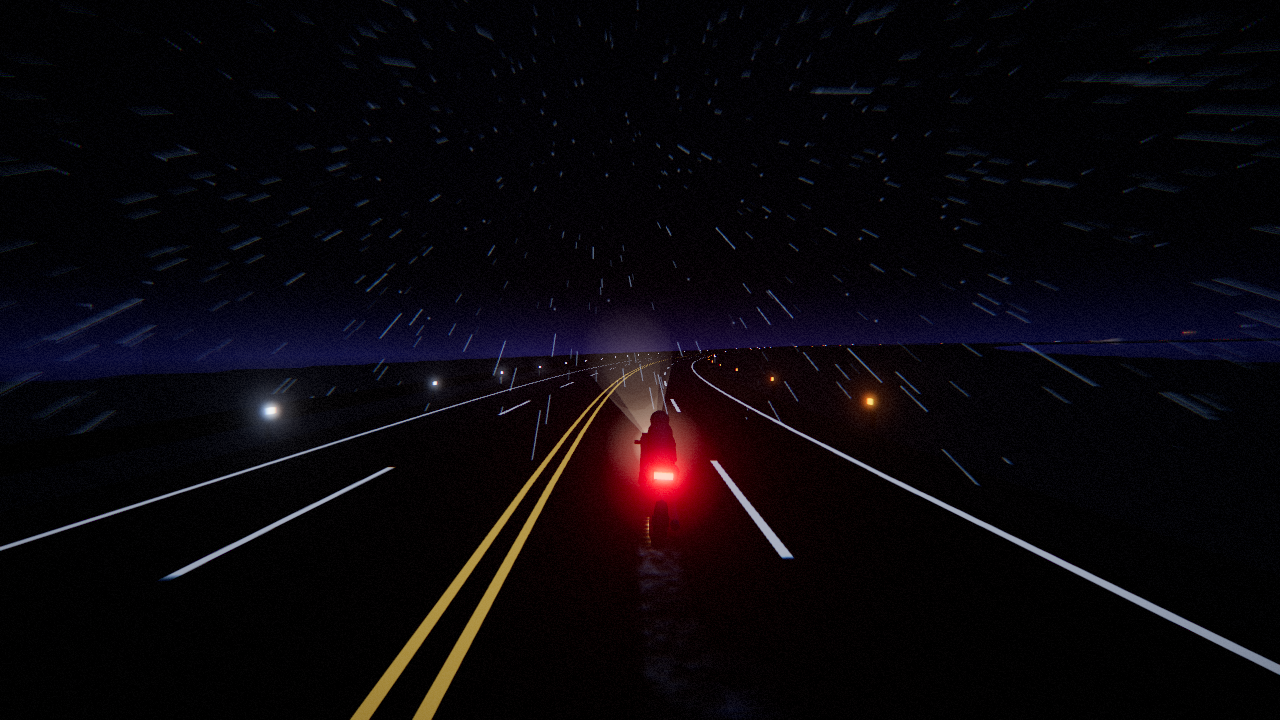
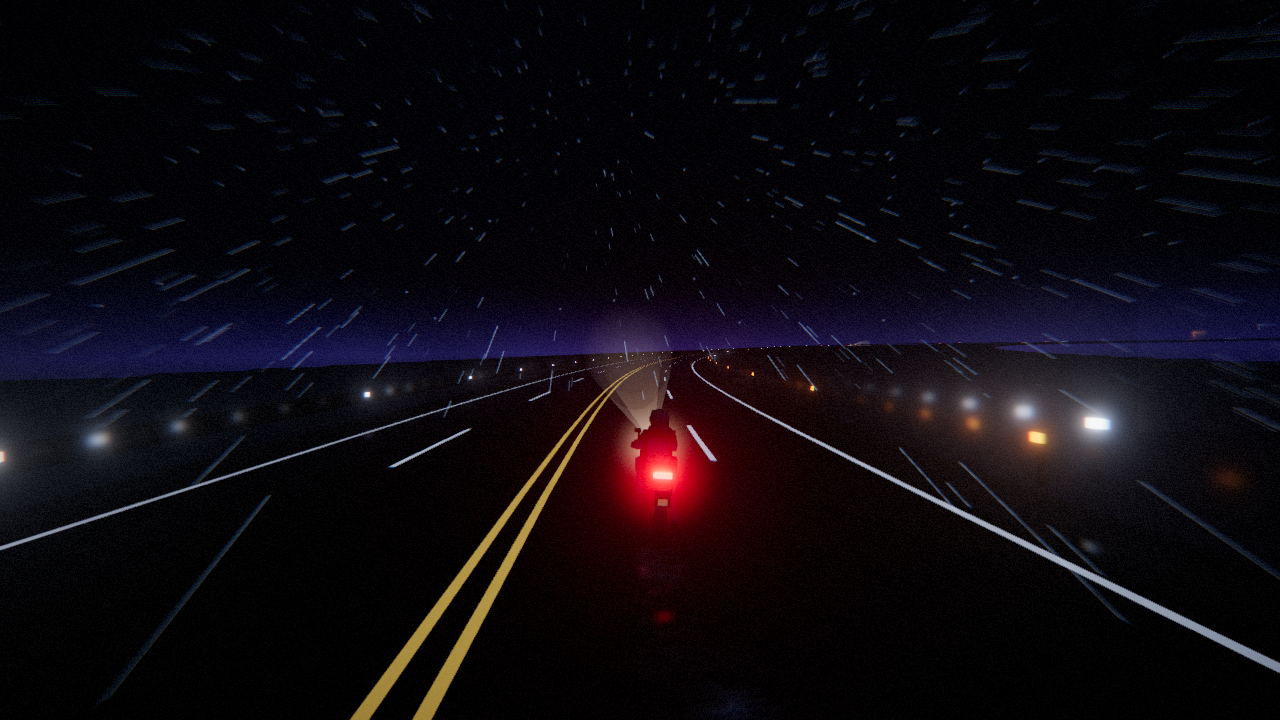
Fix window back faces, calm the road spray, rebalance the low profile

diff --git a/src/bike.js b/src/bike.js
@@ -362,9 +362,16 @@ export class Bike {
     const col = new Float32Array(n * 3);
     this.sprayLife = new Float32Array(n);
     this.sprayTone = new Float32Array(n);        // how bright this droplet ever gets
+    /* Sideways drift, decided once when the droplet is thrown and kept. It used
+       to be a fresh random number every frame, which is a random walk: the
+       cloud did not drift, it boiled, and eleven hundred droplets each jumping
+       to a new place sixty times a second read as a crawling crust on the road
+       rather than as water in the air. */
+    this.sprayVx = new Float32Array(n);
     for (let i = 0; i < n; i++) {
       this.sprayLife[i] = Math.random();
       this.sprayTone[i] = 0.35 + Math.random() * 0.65;
+      this.sprayVx[i] = (Math.random() - 0.5) * 1.6;
     }
     const g = new THREE.BufferGeometry();
     g.setAttribute('position', new THREE.BufferAttribute(pos, 3));
@@ -372,7 +379,12 @@ export class Bike {
     this.sprayMat = new THREE.PointsMaterial({
       map: a.tex.dot,          // no mipmaps: a mipped point sprite renders square
       color: 0x7d90b0,
-      size: 0.26,
+      /* Large and faint, so they overlap. Overlap is the whole trick: a mist
+         you cannot count is one where no single droplet is bright enough to
+         see on its own and there are enough of them that they are always on top
+         of one another. Going the other way — small and bright — was tried and
+         made it worse, a scatter of hard grains instead of a soft crust. */
+      size: 0.34,
       vertexColors: true,          // per-droplet brightness, and a fade with age
       transparent: true,
       opacity: 0,
@@ -481,7 +493,7 @@ export class Bike {
 
   updateSpray(dt, speed, rain) {
     const amount = clamp(speed / 30, 0, 1) * rain;
-    this.sprayMat.opacity = amount * 0.04;
+    this.sprayMat.opacity = amount * 0.022;   // faint enough that only the overlap shows
     if (amount <= 0.01) return;
     const p = this.spray.geometry.attributes.position;
     const c = this.spray.geometry.attributes.color;
@@ -497,10 +509,11 @@ export class Bike {
         // stagger the birth along the trail, or the whole cloud is reborn
         // together and the plume pulses instead of hanging there
         arr[i3 + 2] = 1.0 + Math.random() * 0.8;
+        this.sprayVx[i] = (Math.random() - 0.5) * 1.6;
       } else {
         const t = 1 - this.sprayLife[i];
         // the plume widens as it falls behind rather than staying a rope
-        arr[i3] += (Math.random() - 0.5) * (1.1 + t * 2.6) * dt;
+        arr[i3] += this.sprayVx[i] * (0.6 + t * 1.8) * dt;
         arr[i3 + 1] = 0.06 + t * t * 1.3;
         arr[i3 + 2] += (2 + speed * 0.28) * dt;
       }

diff --git a/src/quality.js b/src/quality.js
@@ -51,14 +51,25 @@ import { isTouchDevice } from './input.js';
    the most expensive one in the chain: each tap costs three texture reads,
    because the chromatic split needs the channels separately. Five taps is
    fifteen reads per pixel of the screen. */
-/* smaa is three extra full-screen passes. The low profile is the one profile
-   that has no multisampling at all, so it is the one that would gain most from
-   it and the one least able to pay — and it is reached by stepping down from a
-   frame rate that was already poor. Edges lose. */
+/* The low profile, rebalanced against the measured price of each setting rather
+   than by dropping everything at once.
+   It used to have no antialiasing of any kind — no multisampling, no post pass
+   — which is the profile a struggling machine is sent to and the one where the
+   staircase measured worst of the three. And it had the smallest bloom buffer,
+   which is the setting that makes street lamps pulse: frame-to-frame jitter of
+   the light above the horizon went 0.5x -> 12.5%, 1x -> 8.8%, 1.5x -> 7.5%. So
+   the cheap profile got both the worst edges and the worst flicker.
+   Priced on a real card (bench.mjs --knobs), turning smaa off is worth x0.82
+   and shrinking the bloom buffer to a third only x0.94 — while pixels are dead
+   linear, x0.48 for half of them. So both are bought back and paid for out of
+   resolution: smaa on, bloom buffer to 1.0, pixel ceiling 1.4 -> 1.05 Mpx.
+   Composed, that is x1.22 * x1.06 * x0.75, which lands within a few per cent of
+   where it was. Predicted from measurements rather than measured as a whole,
+   and worth confirming on a second card. */
 export const TIERS = [
   { name: 'high', pixelRatio: 1.75, bloomScale: 1.5, rain: 1.0, envEvery: 6, samples: 2, ssrSteps: 48, smaa: true, maxPixels: 3.3e6, gradeTaps: 5 },
   { name: 'mid', pixelRatio: 1.25, bloomScale: 0.7, rain: 0.6, envEvery: 9, samples: 2, ssrSteps: 22, smaa: true, maxPixels: 2.2e6, gradeTaps: 4 },
-  { name: 'low', pixelRatio: 1.0, bloomScale: 0.5, rain: 0.32, envEvery: 14, samples: 0, ssrSteps: 12, smaa: false, maxPixels: 1.4e6, gradeTaps: 3 },
+  { name: 'low', pixelRatio: 1.0, bloomScale: 1.0, rain: 0.32, envEvery: 14, samples: 0, ssrSteps: 12, smaa: true, maxPixels: 1.05e6, gradeTaps: 3 },
 ];
 
 /** Where to start before we know anything. Phones start low; everything else high. */

diff --git a/src/props.js b/src/props.js
@@ -382,7 +382,16 @@ function city(ctx) {
       const rows = Math.max(1, h / 3.2) | 0;
       /* Offset into the window texture per face, or every building in the city
          lights the same rooms. */
-      const wall = (cx, cz, ax, az, cols) => {
+      /* The outward direction is passed in so the quad can be wound to face it.
+         Both ends were built from the same tangent vector, which means one of
+         them wound the other way round and its face pointed into the building.
+         That was survivable only because the material drew both sides — and
+         drawing both sides is what let the far wall of every building add its
+         windows straight through the shell, which is the back faces showing
+         through. Wind them all outward and one side is enough. */
+      const wall = (cx, cz, ax, az, cols, outX, outZ) => {
+        // the quad's normal for this winding is perpendicular to (ax, az)
+        if (-az * outX + ax * outZ < 0) { ax = -ax; az = -az; }
         const u = (rnd() * 4) | 0, v = (rnd() * 4) | 0;
         win.quad(
           new THREE.Vector3(cx - ax, y0, cz - az),
@@ -395,12 +404,14 @@ function city(ctx) {
 
       const face = ctx.at(s, lat - side * (depth / 2 + 0.06), 0);
       const along = ctx.forward(s).multiplyScalar(w / 2 - 0.4);
-      wall(face.x, face.z, along.x, along.z, Math.max(1, w / 5) | 0);
+      const outFace = ctx.right(s).multiplyScalar(-side);
+      wall(face.x, face.z, along.x, along.z, Math.max(1, w / 5) | 0, outFace.x, outFace.z);
 
       const across = ctx.right(s).multiplyScalar(depth / 2 - 0.4);
       for (const end of [-1, 1]) {
         const e = ctx.at(s + end * (w / 2 + 0.06), lat, 0);
-        wall(e.x, e.z, across.x, across.z, Math.max(1, depth / 5) | 0);
+        const out = ctx.forward(s).multiplyScalar(end);
+        wall(e.x, e.z, across.x, across.z, Math.max(1, depth / 5) | 0, out.x, out.z);
       }
 
       // aircraft warning beacon on the tall ones

diff --git a/src/main.js b/src/main.js
@@ -328,6 +328,17 @@ document.addEventListener('keydown', (e) => {
       hud.toast(debugOff.shafts ? 'LIGHT SHAFTS OFF' : 'LIGHT SHAFTS ON');
       return;
     }
+    /* The profile, by hand. The guard picks one from the frame rate and takes
+       four seconds to change its mind, which is right for a player and useless
+       for looking at a fault that only appears on one profile — and `?q=low`
+       needs a reload, which loses wherever you had got to. Note this is the
+       guard's own step, so it keeps choosing from here rather than snapping
+       back to what it had decided before. */
+    if (e.code === 'Digit4') {
+      guard.step((guard.index + 1) % TIERS.length);
+      hud.toast(`QUALITY: ${TIERS[guard.index].name.toUpperCase()}`);
+      return;
+    }
     if (e.code === 'Digit3') {
       debugOff.decals = !debugOff.decals;
       hud.toast(debugOff.decals ? 'ROAD LIGHT OFF' : 'ROAD LIGHT ON');

diff --git a/src/assets.js b/src/assets.js
@@ -374,7 +374,11 @@ export function assets() {
       blending: THREE.AdditiveBlending,
       depthWrite: false,
       toneMapped: false,
-      side: THREE.DoubleSide,
+      /* One side, now that the quads are all wound outward. Measured on a city
+         frame: drawing both lit eighteen thousand pixels that the front faces
+         alone do not, and those are the far walls of buildings adding light
+         through their own shells. */
+      side: THREE.FrontSide,
       color: 0xffffff,
     }),
 

diff --git a/README.md b/README.md
@@ -32,6 +32,8 @@ like a broken game.
 | `R` | cycle the rain |
 | `M` | music on/off |
 | `T` | push the clock forward an hour |
+| `` ` `` | the developer panel — frame times, GPU time, what the reflections found |
+| `1` … `4` | reflections · light shafts · road decals · quality profile |
 
 ## Riding itself
 
@@ -57,9 +59,11 @@ the throttle open. Drag down on the right to brake.
 
 Quality adapts to what the machine actually does rather than to what it claims
 to be. Everything but a phone starts on the high tier; if the frame rate stays
-under 45 for four seconds it steps down (pixel ratio, bloom resolution, rain
-density, environment refresh), and it steps back up if the frame rate recovers
-and holds. The first version guessed from core count and window height, and put
+under 45 for four seconds it steps down and it steps back up if the frame rate
+recovers and holds. A profile sets the ceiling on the drawing buffer, how much
+multisampling and post-process antialiasing it can afford, the bloom buffer's
+resolution, how far the reflection pass may march, how many taps the radial blur
+takes, rain density and how often the environment map is rebaked. The first version guessed from core count and window height, and put
 a desktop running at 76 fps into the cut-down renderer — the telemetry caught it
 in the very first session. Landscape only — portrait asks you to turn the phone.
 
@@ -67,8 +71,8 @@ in the very first session. Landscape only — portrait asks you to turn the phon
 
 Nothing here is an asset file. There are no models, no textures and no audio in
 the repository — all of it is built at runtime, which is why the whole thing
-loads instantly and ships as one 800 kB bundle (210 kB gzipped), nearly all of
-it Three.js.
+loads instantly and ships as one 950 kB bundle (280 kB gzipped), nearly all of
+it Three.js and its antialiasing lookup tables.
 
 **The road** is a centreline defined as a pure function of distance: curvature
 and elevation are sums of sines, so kilometre 4,182 looks the same on every run
@@ -133,8 +137,15 @@ The game reads your clock and your time zone. It names the place from the zone
 (`Europe/Berlin` → `Berlin`), and the sky is graded to the actual hour: dusk at
 19:00, deep black at 03:00, the first blue at 05:20. Start it at noon and the
 daylight hours are folded into the small hours instead — it is still Midnight
-Ride. The weather is fixed for the calendar day, so tonight's rain is the same
-rain every time you come back to it tonight.
+Ride.
+
+The weather is chosen for the calendar day and it is the same weather every time
+you come back to it tonight — but it is a description of the night rather than a
+constant. Showers arrive and pass as you ride: a Heavy Rain night is wet about
+seven tenths of the way with breaks in it, a Clear one catches one shower in
+twenty-five kilometres. The road then keeps the water for a while after the rain
+stops, because tarmac soaks in seconds and dries in minutes, and that lag is
+most of what makes a wet road look rained on rather than switched on.
 
 ## Layout
 
@@ -150,16 +161,26 @@ src/
   events.js      the aeroplane, the train, the other rider, the storm
   rain.js        5000 GPU-resident streaks
   sky.js         gradient dome, stars, moon, environment map
-  postfx.js      bloom, radial speed blur, chromatic fringe, grain
-  timeofday.js   clock → palette; time zone → place; day → weather
+  postfx.js      screen-space reflections, bloom held still between frames,
+                 radial speed blur, chromatic fringe, grain, SMAA
+  glow.js        every glow in the game, in one instanced draw call
+  timeofday.js   clock → palette; time zone → place; distance → weather
   hud.js         the interface
+  devhud.js      the developer panel, and the frame-time graph
+  gputime.js     what the GPU actually spent, via the timer query
   input.js       keyboard and relative-drag touch
   autopilot.js   rides for you when you stop
-  quality.js     what to cut on a small device
+  quality.js     the profiles, and the guard that picks between them
+  photo.js       the free camera and the bokeh pass
+  stream.js      the channel mode
+  telemetry.js   one beacon per session, if an endpoint was given
   audio/
     core.js      context, bus, convolution reverb, noise
     engine.js    engine, wind, tyres, rain, whoosh
     music.js     the generative synthwave sequencer
+    stations.js  the four stations and what makes each one itself
+    traffic.js   the other vehicles, heard: doppler from the geometry
+tools/test/      the suite; see tools/test/README.md
 ```
 
 ## Photo mode
@@ -251,6 +272,38 @@ One implementation note worth keeping: the body is JSON but goes out as
 triggers a preflight — and a beacon fired during `pagehide` does not survive the
 round trip. The request dies as an unanswered `OPTIONS` and you get silence
 instead of data. The receiver just parses the body itself.
+
+## Tests
+
+```bash
+npm test                    # everything
+npm test -- visual          # one suite: music, world, budgets, visual
+npm test -- visual --update # re-record the golden frames, then look at them
+node tools/test/bench.mjs --knobs   # what each quality setting costs, on the real GPU
+```
+
+Nothing here is deterministic by nature — the road is seeded but the bike, the
+autopilot and the audio all reach for `Math.random`, and the sky reads the wall
+clock — so the harness replaces both clocks before any page script runs and
+halts the frame loop, and time then only passes when a test asks for it. Two
+runs of the same drive render the same bytes, which is what makes a golden frame
+a test rather than a coin toss.
+
+Correctness runs on SwiftShader, the software renderer, because every machine
+draws identical bytes there. Cost runs on the actual graphics card, because on
+SwiftShader the price of filling a pixel bears no relation to what a GPU charges
+— a change that halves the fill rate can measure as a slowdown. The two are
+never mixed.
+
+`bench.mjs --knobs` prices one setting at a time by alternating it frame by
+frame against an untouched profile, which is the only way to get a number out of
+a card that changes its own clocks between one measurement and the next. Its
+first row is the same profile compared with itself: that row has to come out at
+1.00, and how far it strays is the smallest difference the rig can see.
+
+## Licence
+
+MIT. The code, and everything it generates, is yours to do as you like with.
 
 ## Console handle
 
